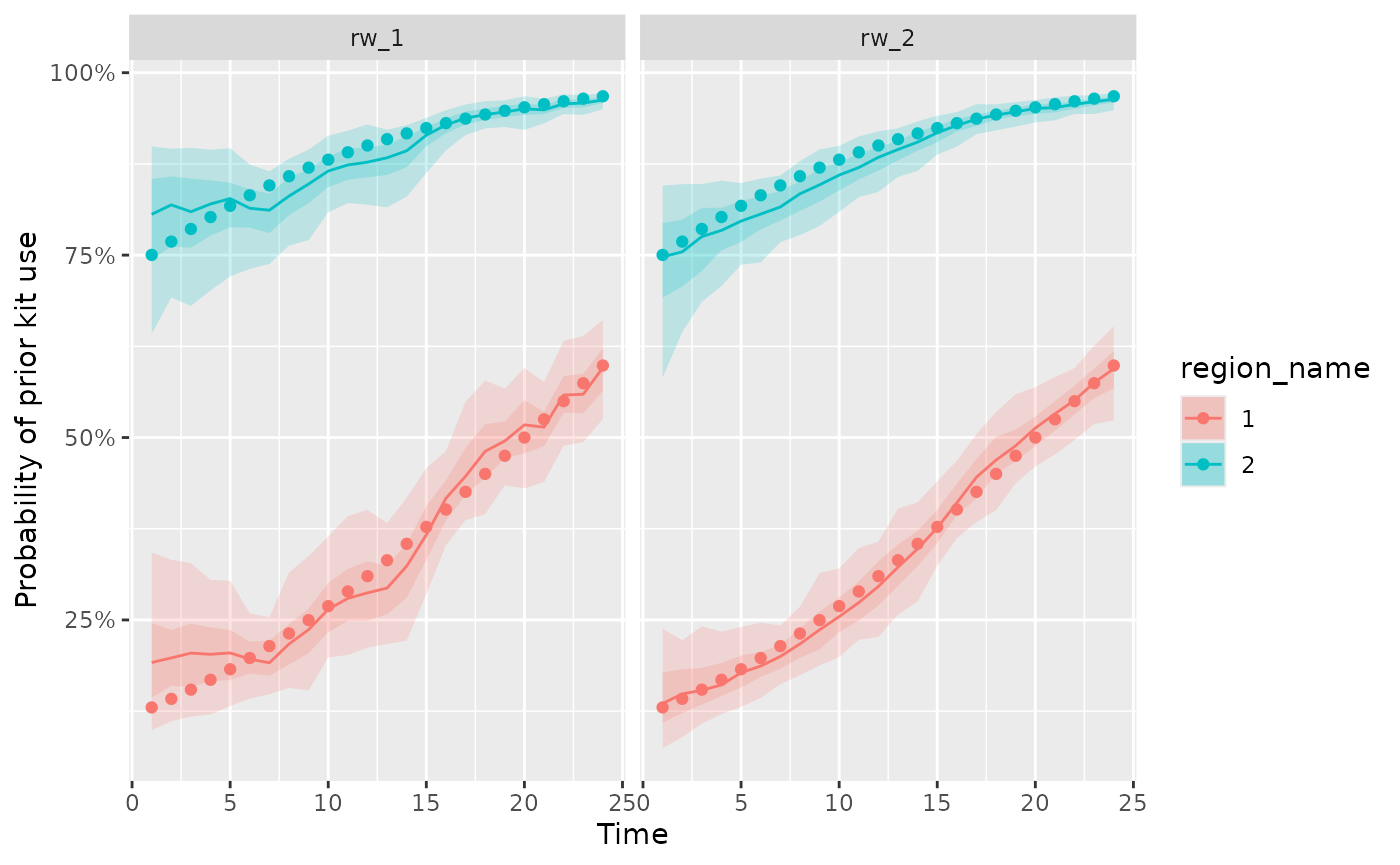
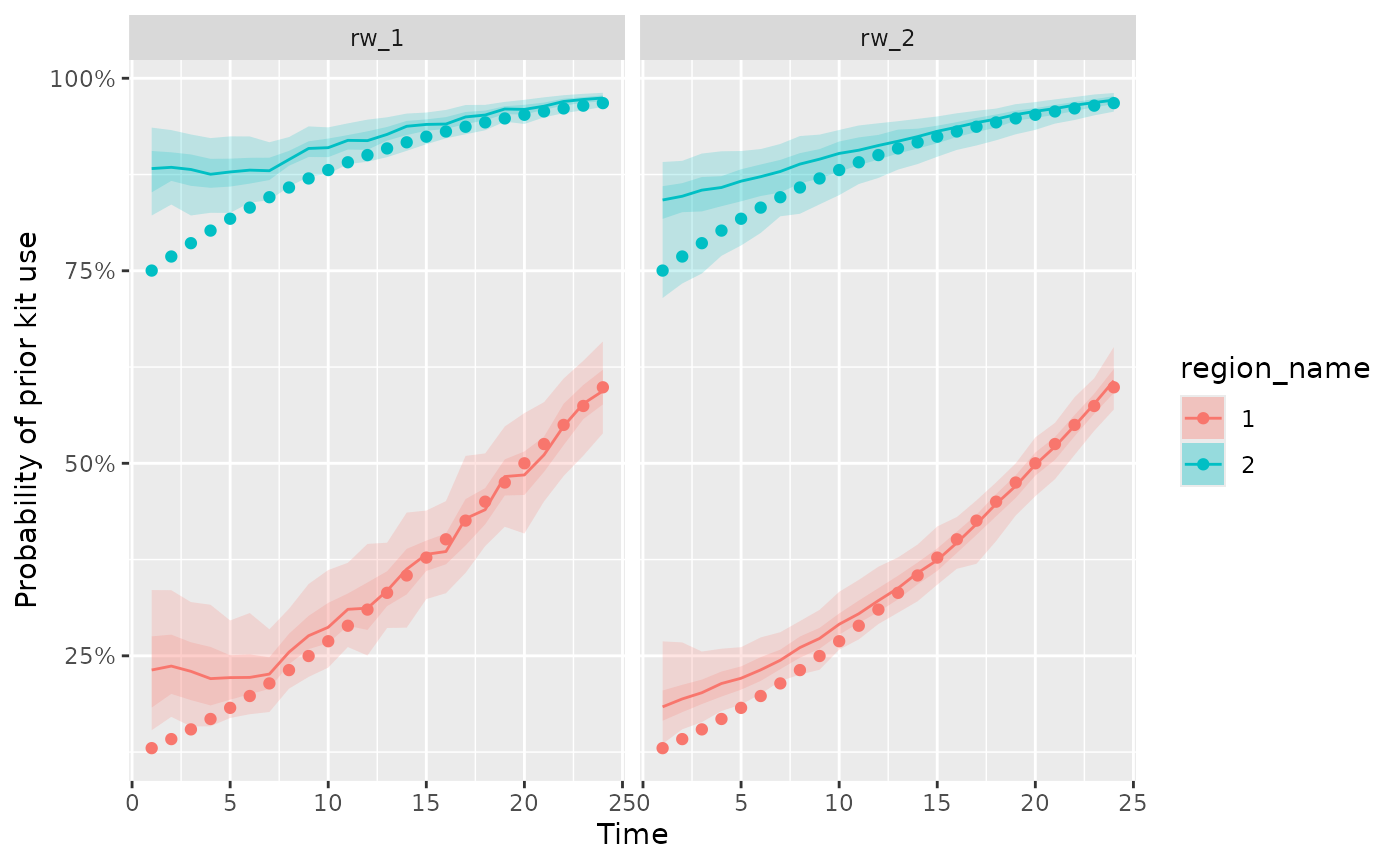
Deploying to gh-pages from @ sempwn/bennu@60a3f8bed3d4ef586ce36be94f3d43cffceaf0da 🚀

diff --git a/articles/Introduction.html b/articles/Introduction.html
@@ -135,9 +135,11 @@
 <span><span class="co">#&gt; <span style="color: #555555;">This warning is displayed once every 8 hours.</span></span></span>
 <span><span class="co">#&gt; <span style="color: #555555;">Call `lifecycle::last_lifecycle_warnings()` to see where this warning was</span></span></span>
 <span><span class="co">#&gt; <span style="color: #555555;">generated.</span></span></span>
-<span><span class="co">#&gt; Warning: There were 12 divergent transitions after warmup. See</span></span>
+<span><span class="co">#&gt; Warning: There were 28 divergent transitions after warmup. See</span></span>
 <span><span class="co">#&gt; https://mc-stan.org/misc/warnings.html#divergent-transitions-after-warmup</span></span>
 <span><span class="co">#&gt; to find out why this is a problem and how to eliminate them.</span></span>
+<span><span class="co">#&gt; Warning: There were 1 chains where the estimated Bayesian Fraction of Missing Information was low. See</span></span>
+<span><span class="co">#&gt; https://mc-stan.org/misc/warnings.html#bfmi-low</span></span>
 <span><span class="co">#&gt; Warning: Examine the pairs() plot to diagnose sampling problems</span></span>
 <span><span class="co">#&gt; Warning: The largest R-hat is NA, indicating chains have not mixed.</span></span>
 <span><span class="co">#&gt; Running the chains for more iterations may help. See</span></span>
@@ -174,18 +176,18 @@
 <span></span>
 <span><span class="fu"><a href="https://mc-stan.org/posterior/reference/draws_summary.html" class="external-link">summarise_draws</a></span><span class="op">(</span><span class="va">fit</span>, <span class="fu"><a href="https://mc-stan.org/posterior/reference/draws_summary.html" class="external-link">default_summary_measures</a></span><span class="op">(</span><span class="op">)</span><span class="op">)</span></span>
 <span><span class="co">#&gt; <span style="color: #949494;"># A tibble: 222 × 7</span></span></span>
-<span><span class="co">#&gt;    variable   mean median     sd    mad     q5   q95</span></span>
-<span><span class="co">#&gt;    <span style="color: #949494; font-style: italic;">&lt;chr&gt;</span>     <span style="color: #949494; font-style: italic;">&lt;dbl&gt;</span>  <span style="color: #949494; font-style: italic;">&lt;dbl&gt;</span>  <span style="color: #949494; font-style: italic;">&lt;dbl&gt;</span>  <span style="color: #949494; font-style: italic;">&lt;dbl&gt;</span>  <span style="color: #949494; font-style: italic;">&lt;dbl&gt;</span> <span style="color: #949494; font-style: italic;">&lt;dbl&gt;</span></span></span>
-<span><span class="co">#&gt; <span style="color: #BCBCBC;"> 1</span> sim_p[1]  0.201  0.192 0.074<span style="text-decoration: underline;">9</span> 0.076<span style="text-decoration: underline;">3</span> 0.099<span style="text-decoration: underline;">0</span> 0.342</span></span>
-<span><span class="co">#&gt; <span style="color: #BCBCBC;"> 2</span> sim_p[2]  0.204  0.198 0.063<span style="text-decoration: underline;">2</span> 0.056<span style="text-decoration: underline;">9</span> 0.111  0.332</span></span>
-<span><span class="co">#&gt; <span style="color: #BCBCBC;"> 3</span> sim_p[3]  0.208  0.204 0.065<span style="text-decoration: underline;">9</span> 0.065<span style="text-decoration: underline;">7</span> 0.117  0.328</span></span>
-<span><span class="co">#&gt; <span style="color: #BCBCBC;"> 4</span> sim_p[4]  0.206  0.203 0.056<span style="text-decoration: underline;">9</span> 0.054<span style="text-decoration: underline;">4</span> 0.120  0.305</span></span>
-<span><span class="co">#&gt; <span style="color: #BCBCBC;"> 5</span> sim_p[5]  0.207  0.205 0.053<span style="text-decoration: underline;">6</span> 0.050<span style="text-decoration: underline;">6</span> 0.132  0.304</span></span>
-<span><span class="co">#&gt; <span style="color: #BCBCBC;"> 6</span> sim_p[6]  0.200  0.196 0.036<span style="text-decoration: underline;">6</span> 0.032<span style="text-decoration: underline;">2</span> 0.142  0.259</span></span>
-<span><span class="co">#&gt; <span style="color: #BCBCBC;"> 7</span> sim_p[7]  0.197  0.191 0.032<span style="text-decoration: underline;">0</span> 0.032<span style="text-decoration: underline;">2</span> 0.148  0.254</span></span>
-<span><span class="co">#&gt; <span style="color: #BCBCBC;"> 8</span> sim_p[8]  0.219  0.217 0.046<span style="text-decoration: underline;">2</span> 0.041<span style="text-decoration: underline;">4</span> 0.157  0.315</span></span>
-<span><span class="co">#&gt; <span style="color: #BCBCBC;"> 9</span> sim_p[9]  0.236  0.237 0.051<span style="text-decoration: underline;">4</span> 0.044<span style="text-decoration: underline;">5</span> 0.153  0.337</span></span>
-<span><span class="co">#&gt; <span style="color: #BCBCBC;">10</span> sim_p[10] 0.271  0.265 0.050<span style="text-decoration: underline;">3</span> 0.050<span style="text-decoration: underline;">6</span> 0.199  0.365</span></span>
+<span><span class="co">#&gt;    variable   mean median     sd    mad    q5   q95</span></span>
+<span><span class="co">#&gt;    <span style="color: #949494; font-style: italic;">&lt;chr&gt;</span>     <span style="color: #949494; font-style: italic;">&lt;dbl&gt;</span>  <span style="color: #949494; font-style: italic;">&lt;dbl&gt;</span>  <span style="color: #949494; font-style: italic;">&lt;dbl&gt;</span>  <span style="color: #949494; font-style: italic;">&lt;dbl&gt;</span> <span style="color: #949494; font-style: italic;">&lt;dbl&gt;</span> <span style="color: #949494; font-style: italic;">&lt;dbl&gt;</span></span></span>
+<span><span class="co">#&gt; <span style="color: #BCBCBC;"> 1</span> sim_p[1]  0.235  0.232 0.059<span style="text-decoration: underline;">8</span> 0.067<span style="text-decoration: underline;">8</span> 0.153 0.335</span></span>
+<span><span class="co">#&gt; <span style="color: #BCBCBC;"> 2</span> sim_p[2]  0.242  0.237 0.052<span style="text-decoration: underline;">6</span> 0.055<span style="text-decoration: underline;">1</span> 0.171 0.335</span></span>
+<span><span class="co">#&gt; <span style="color: #BCBCBC;"> 3</span> sim_p[3]  0.233  0.230 0.049<span style="text-decoration: underline;">6</span> 0.055<span style="text-decoration: underline;">5</span> 0.158 0.320</span></span>
+<span><span class="co">#&gt; <span style="color: #BCBCBC;"> 4</span> sim_p[4]  0.227  0.220 0.051<span style="text-decoration: underline;">0</span> 0.052<span style="text-decoration: underline;">6</span> 0.158 0.316</span></span>
+<span><span class="co">#&gt; <span style="color: #BCBCBC;"> 5</span> sim_p[5]  0.227  0.222 0.041<span style="text-decoration: underline;">1</span> 0.042<span style="text-decoration: underline;">8</span> 0.169 0.296</span></span>
+<span><span class="co">#&gt; <span style="color: #BCBCBC;"> 6</span> sim_p[6]  0.229  0.222 0.040<span style="text-decoration: underline;">9</span> 0.038<span style="text-decoration: underline;">6</span> 0.174 0.306</span></span>
+<span><span class="co">#&gt; <span style="color: #BCBCBC;"> 7</span> sim_p[7]  0.228  0.226 0.033<span style="text-decoration: underline;">7</span> 0.030<span style="text-decoration: underline;">1</span> 0.177 0.284</span></span>
+<span><span class="co">#&gt; <span style="color: #BCBCBC;"> 8</span> sim_p[8]  0.259  0.255 0.032<span style="text-decoration: underline;">3</span> 0.029<span style="text-decoration: underline;">3</span> 0.207 0.311</span></span>
+<span><span class="co">#&gt; <span style="color: #BCBCBC;"> 9</span> sim_p[9]  0.281  0.276 0.040<span style="text-decoration: underline;">7</span> 0.034<span style="text-decoration: underline;">6</span> 0.223 0.343</span></span>
+<span><span class="co">#&gt; <span style="color: #BCBCBC;">10</span> sim_p[10] 0.293  0.287 0.038<span style="text-decoration: underline;">9</span> 0.037<span style="text-decoration: underline;">1</span> 0.235 0.361</span></span>
 <span><span class="co">#&gt; <span style="color: #949494;"># ℹ 212 more rows</span></span></span></code></pre></div>
 <p>We can plot the posterior predictive distribution of the probability
 of prior kit use and compare to simulated data using the
@@ -221,9 +223,9 @@ check by re-running the model without the likelihood by setting the
 <span><span class="co">#&gt; Warning: There were 2 divergent transitions after warmup. See</span></span>
 <span><span class="co">#&gt; https://mc-stan.org/misc/warnings.html#divergent-transitions-after-warmup</span></span>
 <span><span class="co">#&gt; to find out why this is a problem and how to eliminate them.</span></span>
-<span><span class="co">#&gt; Warning: There were 1 transitions after warmup that exceeded the maximum treedepth. Increase max_treedepth above 10. See</span></span>
+<span><span class="co">#&gt; Warning: There were 3 transitions after warmup that exceeded the maximum treedepth. Increase max_treedepth above 10. See</span></span>
 <span><span class="co">#&gt; https://mc-stan.org/misc/warnings.html#maximum-treedepth-exceeded</span></span>
-<span><span class="co">#&gt; Warning: There were 4 chains where the estimated Bayesian Fraction of Missing Information was low. See</span></span>
+<span><span class="co">#&gt; Warning: There were 3 chains where the estimated Bayesian Fraction of Missing Information was low. See</span></span>
 <span><span class="co">#&gt; https://mc-stan.org/misc/warnings.html#bfmi-low</span></span>
 <span><span class="co">#&gt; Warning: Examine the pairs() plot to diagnose sampling problems</span></span>
 <span><span class="co">#&gt; Warning: The largest R-hat is NA, indicating chains have not mixed.</span></span>
@@ -247,6 +249,46 @@ function</p>
 <code class="sourceCode R"><span><span class="fu"><a href="../reference/plot_kit_use.html">plot_kit_use</a></span><span class="op">(</span>prior <span class="op">=</span> <span class="va">prior_fit</span>, posterior <span class="op">=</span> <span class="va">fit</span>, data <span class="op">=</span> <span class="va">d</span><span class="op">)</span></span></code></pre></div>
 <p><img src="Introduction_files/figure-html/plot%20compare%20prior%20posterior-1.png" width="700"></p>
 <div class="section level2">
+<h2 id="incorporating-different-priors">Incorporating different priors<a class="anchor" aria-label="anchor" href="#incorporating-different-priors"></a>
+</h2>
+<p>The default priors for the model are set to be weakly uninformative.
+To change the default priors we can specify a <code>list</code> as
+follows. Note that <code>c</code> is the prior of the region
+coefficients, <code>mu0</code> is the intercept, <code>ct0</code> is the
+initial conditions of the random walk, <code>zeta</code> is the standard
+deviation of the random walk, and <code>sigma</code> is the standard
+deviation of the error. In this example let’s set the variation month to
+month to be smaller by setting the standard deviation of the prior for
+<code>zeta</code> to 0.01.</p>
+<div class="sourceCode" id="cb8"><pre class="downlit sourceCode r">
+<code class="sourceCode R"><span><span class="va">nondefault_priors</span> <span class="op">&lt;-</span> <span class="fu"><a href="https://rdrr.io/r/base/list.html" class="external-link">list</a></span><span class="op">(</span></span>
+<span>  c <span class="op">=</span> <span class="fu"><a href="https://rdrr.io/r/base/list.html" class="external-link">list</a></span><span class="op">(</span>mu <span class="op">=</span> <span class="fl">0</span>, sigma <span class="op">=</span> <span class="fl">1</span><span class="op">)</span>,</span>
+<span>  ct0 <span class="op">=</span> <span class="fu"><a href="https://rdrr.io/r/base/list.html" class="external-link">list</a></span><span class="op">(</span>mu <span class="op">=</span> <span class="fl">0</span>, sigma <span class="op">=</span> <span class="fl">1</span><span class="op">)</span>,</span>
+<span>  zeta <span class="op">=</span> <span class="fu"><a href="https://rdrr.io/r/base/list.html" class="external-link">list</a></span><span class="op">(</span>mu <span class="op">=</span> <span class="fl">0</span>, sigma <span class="op">=</span> <span class="fl">0.01</span><span class="op">)</span>,</span>
+<span>  mu0 <span class="op">=</span> <span class="fu"><a href="https://rdrr.io/r/base/list.html" class="external-link">list</a></span><span class="op">(</span>mu <span class="op">=</span> <span class="fl">0</span>, sigma <span class="op">=</span> <span class="fl">1</span><span class="op">)</span>,</span>
+<span>  sigma <span class="op">=</span> <span class="fu"><a href="https://rdrr.io/r/base/list.html" class="external-link">list</a></span><span class="op">(</span>mu <span class="op">=</span> <span class="fl">0</span>, sigma <span class="op">=</span> <span class="fl">1</span><span class="op">)</span></span>
+<span><span class="op">)</span></span>
+<span><span class="va">nondefault_prior_fit</span> <span class="op">&lt;-</span> <span class="fu"><a href="../reference/est_naloxone.html">est_naloxone</a></span><span class="op">(</span><span class="va">d</span>, iter <span class="op">=</span> <span class="fl">100</span>, priors <span class="op">=</span> <span class="va">nondefault_priors</span><span class="op">)</span></span>
+<span><span class="co">#&gt; Warning: There were 4 transitions after warmup that exceeded the maximum treedepth. Increase max_treedepth above 10. See</span></span>
+<span><span class="co">#&gt; https://mc-stan.org/misc/warnings.html#maximum-treedepth-exceeded</span></span>
+<span><span class="co">#&gt; Warning: Examine the pairs() plot to diagnose sampling problems</span></span>
+<span><span class="co">#&gt; Warning: The largest R-hat is NA, indicating chains have not mixed.</span></span>
+<span><span class="co">#&gt; Running the chains for more iterations may help. See</span></span>
+<span><span class="co">#&gt; https://mc-stan.org/misc/warnings.html#r-hat</span></span>
+<span><span class="co">#&gt; Warning: Bulk Effective Samples Size (ESS) is too low, indicating posterior means and medians may be unreliable.</span></span>
+<span><span class="co">#&gt; Running the chains for more iterations may help. See</span></span>
+<span><span class="co">#&gt; https://mc-stan.org/misc/warnings.html#bulk-ess</span></span>
+<span><span class="co">#&gt; Warning: Tail Effective Samples Size (ESS) is too low, indicating posterior variances and tail quantiles may be unreliable.</span></span>
+<span><span class="co">#&gt; Running the chains for more iterations may help. See</span></span>
+<span><span class="co">#&gt; https://mc-stan.org/misc/warnings.html#tail-ess</span></span></code></pre></div>
+<p>Compare the posterior using non-default priors to the posterior for
+default priors,</p>
+<div class="sourceCode" id="cb9"><pre class="downlit sourceCode r">
+<code class="sourceCode R"><span><span class="fu"><a href="../reference/plot_kit_use.html">plot_kit_use</a></span><span class="op">(</span>`Default prior` <span class="op">=</span> <span class="va">fit</span>,</span>
+<span>             `Non-default prior` <span class="op">=</span> <span class="va">nondefault_prior_fit</span>, data <span class="op">=</span> <span class="va">d</span><span class="op">)</span></span></code></pre></div>
+<p><img src="Introduction_files/figure-html/plot%20compare%20prior%20posterior%20nondefault%20prior-1.png" width="700"></p>
+</div>
+<div class="section level2">
 <h2 id="random-walk-of-order-2-model">Random walk of order 2 model<a class="anchor" aria-label="anchor" href="#random-walk-of-order-2-model"></a>
 </h2>
 <p>The second model uses a random walk of order 1 to characterize the
@@ -261,18 +303,16 @@ independent second order increments,</p>
 \sim N(0,\tau^{-1}) \]</span></p>
 <p>This version of the model will produce smoother estimates of
 probability of naloxone use in time.</p>
-<div class="sourceCode" id="cb8"><pre class="downlit sourceCode r">
+<div class="sourceCode" id="cb10"><pre class="downlit sourceCode r">
 <code class="sourceCode R"><span><span class="co"># note iter should be at least 2000 to generate a reasonable posterior sample</span></span>
 <span><span class="co"># note use `rw_type` to specify order of random walk</span></span>
 <span><span class="va">rw2_fit</span> <span class="op">&lt;-</span> <span class="fu"><a href="../reference/est_naloxone.html">est_naloxone</a></span><span class="op">(</span><span class="va">d</span>,</span>
 <span>  rw_type <span class="op">=</span> <span class="fl">2</span>,</span>
 <span>  iter <span class="op">=</span> <span class="fl">100</span></span>
 <span><span class="op">)</span></span>
-<span><span class="co">#&gt; Warning: There were 4 divergent transitions after warmup. See</span></span>
+<span><span class="co">#&gt; Warning: There were 25 divergent transitions after warmup. See</span></span>
 <span><span class="co">#&gt; https://mc-stan.org/misc/warnings.html#divergent-transitions-after-warmup</span></span>
 <span><span class="co">#&gt; to find out why this is a problem and how to eliminate them.</span></span>
-<span><span class="co">#&gt; Warning: There were 1 transitions after warmup that exceeded the maximum treedepth. Increase max_treedepth above 10. See</span></span>
-<span><span class="co">#&gt; https://mc-stan.org/misc/warnings.html#maximum-treedepth-exceeded</span></span>
 <span><span class="co">#&gt; Warning: There were 1 chains where the estimated Bayesian Fraction of Missing Information was low. See</span></span>
 <span><span class="co">#&gt; https://mc-stan.org/misc/warnings.html#bfmi-low</span></span>
 <span><span class="co">#&gt; Warning: Examine the pairs() plot to diagnose sampling problems</span></span>
@@ -291,26 +331,26 @@ probability of naloxone use in time.</p>
 <span><span class="op">)</span></span></code></pre></div>
 <p><img src="Introduction_files/figure-html/rw%20order%202%20model-1.png" width="700"></p>
 <p>Summarize random walk order 2 model draws</p>
-<div class="sourceCode" id="cb9"><pre class="downlit sourceCode r">
+<div class="sourceCode" id="cb11"><pre class="downlit sourceCode r">
 <code class="sourceCode R"><span><span class="fu"><a href="https://mc-stan.org/posterior/reference/draws_summary.html" class="external-link">summarise_draws</a></span><span class="op">(</span><span class="va">rw2_fit</span>, <span class="fu"><a href="https://mc-stan.org/posterior/reference/draws_summary.html" class="external-link">default_convergence_measures</a></span><span class="op">(</span><span class="op">)</span><span class="op">)</span></span>
 <span><span class="co">#&gt; <span style="color: #949494;"># A tibble: 222 × 4</span></span></span>
 <span><span class="co">#&gt;    variable   rhat ess_bulk ess_tail</span></span>
 <span><span class="co">#&gt;    <span style="color: #949494; font-style: italic;">&lt;chr&gt;</span>     <span style="color: #949494; font-style: italic;">&lt;dbl&gt;</span>    <span style="color: #949494; font-style: italic;">&lt;dbl&gt;</span>    <span style="color: #949494; font-style: italic;">&lt;dbl&gt;</span></span></span>
-<span><span class="co">#&gt; <span style="color: #BCBCBC;"> 1</span> sim_p[1]   1.07     64.2    100. </span></span>
-<span><span class="co">#&gt; <span style="color: #BCBCBC;"> 2</span> sim_p[2]   1.03     72.4     62.2</span></span>
-<span><span class="co">#&gt; <span style="color: #BCBCBC;"> 3</span> sim_p[3]   1.02     75.6     65.1</span></span>
-<span><span class="co">#&gt; <span style="color: #BCBCBC;"> 4</span> sim_p[4]   1.03     75.6    132. </span></span>
-<span><span class="co">#&gt; <span style="color: #BCBCBC;"> 5</span> sim_p[5]   1.03    140.     150. </span></span>
-<span><span class="co">#&gt; <span style="color: #BCBCBC;"> 6</span> sim_p[6]   1.01    130.     194. </span></span>
-<span><span class="co">#&gt; <span style="color: #BCBCBC;"> 7</span> sim_p[7]   1.01    162.     192. </span></span>
-<span><span class="co">#&gt; <span style="color: #BCBCBC;"> 8</span> sim_p[8]   1.04     89.5    153. </span></span>
-<span><span class="co">#&gt; <span style="color: #BCBCBC;"> 9</span> sim_p[9]   1.07     53.3     39.9</span></span>
-<span><span class="co">#&gt; <span style="color: #BCBCBC;">10</span> sim_p[10]  1.05     87.1    102. </span></span>
+<span><span class="co">#&gt; <span style="color: #BCBCBC;"> 1</span> sim_p[1]   1.15     69.7    119. </span></span>
+<span><span class="co">#&gt; <span style="color: #BCBCBC;"> 2</span> sim_p[2]   1.11     64.6    104. </span></span>
+<span><span class="co">#&gt; <span style="color: #BCBCBC;"> 3</span> sim_p[3]   1.15     79.3    132. </span></span>
+<span><span class="co">#&gt; <span style="color: #BCBCBC;"> 4</span> sim_p[4]   1.07     69.0     91.7</span></span>
+<span><span class="co">#&gt; <span style="color: #BCBCBC;"> 5</span> sim_p[5]   1.05     88.5    136. </span></span>
+<span><span class="co">#&gt; <span style="color: #BCBCBC;"> 6</span> sim_p[6]   1.02     91.9    134. </span></span>
+<span><span class="co">#&gt; <span style="color: #BCBCBC;"> 7</span> sim_p[7]   1.05     74.4    215. </span></span>
+<span><span class="co">#&gt; <span style="color: #BCBCBC;"> 8</span> sim_p[8]   1.02    139.     232. </span></span>
+<span><span class="co">#&gt; <span style="color: #BCBCBC;"> 9</span> sim_p[9]   1.02    120.     191. </span></span>
+<span><span class="co">#&gt; <span style="color: #BCBCBC;">10</span> sim_p[10]  1.06    119.     107. </span></span>
 <span><span class="co">#&gt; <span style="color: #949494;"># ℹ 212 more rows</span></span></span></code></pre></div>
 <p>We can compare two different model fits of the probability of prior
 kit use to simulated data using the <code>plot_kit_use</code>
 function</p>
-<div class="sourceCode" id="cb10"><pre class="downlit sourceCode r">
+<div class="sourceCode" id="cb12"><pre class="downlit sourceCode r">
 <code class="sourceCode R"><span><span class="fu"><a href="../reference/plot_kit_use.html">plot_kit_use</a></span><span class="op">(</span>rw_1 <span class="op">=</span> <span class="va">fit</span>, rw_2 <span class="op">=</span> <span class="va">rw2_fit</span>, data <span class="op">=</span> <span class="va">d</span><span class="op">)</span></span></code></pre></div>
 <p><img src="Introduction_files/figure-html/plot%20draws%20comparison-1.png" width="700"></p>
 </div>
@@ -323,7 +363,7 @@ data and the distribution data. The model can account for these
 differences and infer the distribution during missing months. See the
 following example for generating distribution data once every three
 months</p>
-<div class="sourceCode" id="cb11"><pre class="downlit sourceCode r">
+<div class="sourceCode" id="cb13"><pre class="downlit sourceCode r">
 <code class="sourceCode R"><span><span class="co">## basic example code</span></span>
 <span><span class="va">d_missing</span> <span class="op">&lt;-</span> <span class="fu"><a href="../reference/generate_model_data.html">generate_model_data</a></span><span class="op">(</span>reporting_freq <span class="op">=</span> <span class="fl">3</span><span class="op">)</span></span>
 <span><span class="fu"><a href="https://ggplot2.tidyverse.org/reference/ggplot.html" class="external-link">ggplot</a></span><span class="op">(</span><span class="fu"><a href="https://ggplot2.tidyverse.org/reference/aes.html" class="external-link">aes</a></span><span class="op">(</span>x <span class="op">=</span> <span class="va">times</span>, y <span class="op">=</span> <span class="va">Reported_Used</span>, color <span class="op">=</span> <span class="fu"><a href="https://rdrr.io/r/base/factor.html" class="external-link">as.factor</a></span><span class="op">(</span><span class="va">regions</span><span class="op">)</span><span class="op">)</span>,</span>
@@ -333,14 +373,16 @@ months</p>
 <span><span class="co">#&gt; Warning: Removed 32 rows containing missing values or values outside the scale range</span></span>
 <span><span class="co">#&gt; (`geom_point()`).</span></span></code></pre></div>
 <p><img src="Introduction_files/figure-html/data%20generation%20lower%20frequency-1.png" width="700"></p>
-<div class="sourceCode" id="cb12"><pre class="downlit sourceCode r">
+<div class="sourceCode" id="cb14"><pre class="downlit sourceCode r">
 <code class="sourceCode R"><span><span class="va">missing_fit</span> <span class="op">&lt;-</span> <span class="fu"><a href="../reference/est_naloxone.html">est_naloxone</a></span><span class="op">(</span><span class="va">d_missing</span>,</span>
 <span>  rw_type <span class="op">=</span> <span class="fl">2</span>,</span>
 <span>  iter <span class="op">=</span> <span class="fl">100</span></span>
 <span><span class="op">)</span></span>
-<span><span class="co">#&gt; Warning: There were 52 divergent transitions after warmup. See</span></span>
+<span><span class="co">#&gt; Warning: There were 9 divergent transitions after warmup. See</span></span>
 <span><span class="co">#&gt; https://mc-stan.org/misc/warnings.html#divergent-transitions-after-warmup</span></span>
 <span><span class="co">#&gt; to find out why this is a problem and how to eliminate them.</span></span>
+<span><span class="co">#&gt; Warning: There were 1 chains where the estimated Bayesian Fraction of Missing Information was low. See</span></span>
+<span><span class="co">#&gt; https://mc-stan.org/misc/warnings.html#bfmi-low</span></span>
 <span><span class="co">#&gt; Warning: Examine the pairs() plot to diagnose sampling problems</span></span>
 <span><span class="co">#&gt; Warning: The largest R-hat is NA, indicating chains have not mixed.</span></span>
 <span><span class="co">#&gt; Running the chains for more iterations may help. See</span></span>
@@ -356,10 +398,10 @@ months</p>
 <span>  off_diag_args <span class="op">=</span> <span class="fu"><a href="https://rdrr.io/r/base/list.html" class="external-link">list</a></span><span class="op">(</span>size <span class="op">=</span> <span class="fl">1</span>, alpha <span class="op">=</span> <span class="fl">0.5</span><span class="op">)</span></span>
 <span><span class="op">)</span></span></code></pre></div>
 <p><img src="Introduction_files/figure-html/missing%20data%20inference-1.png" width="700"></p>
-<div class="sourceCode" id="cb13"><pre class="downlit sourceCode r">
+<div class="sourceCode" id="cb15"><pre class="downlit sourceCode r">
 <code class="sourceCode R"><span><span class="fu"><a href="../reference/plot_kit_use.html">plot_kit_use</a></span><span class="op">(</span>model <span class="op">=</span> <span class="va">missing_fit</span>, data <span class="op">=</span> <span class="va">d_missing</span><span class="op">)</span></span></code></pre></div>
 <p><img src="Introduction_files/figure-html/plot%20draws%20with%20missing%20data-1.png" width="700"></p>
-<div class="sourceCode" id="cb14"><pre class="downlit sourceCode r">
+<div class="sourceCode" id="cb16"><pre class="downlit sourceCode r">
 <code class="sourceCode R"><span><span class="fu"><a href="../reference/plot_kit_use.html">plot_kit_use</a></span><span class="op">(</span>model <span class="op">=</span> <span class="va">missing_fit</span>, data <span class="op">=</span> <span class="va">d_missing</span>, reported <span class="op">=</span> <span class="cn">TRUE</span><span class="op">)</span></span></code></pre></div>
 <p><img src="Introduction_files/figure-html/plot%20reported%20draws%20with%20missing%20data-1.png" width="700"></p>
 </div>
@@ -383,7 +425,7 @@ be expanded into months through interpolation and normalization to
 retain its property as a probability distribution. Example code (not
 run) is shown below. Note that these distributions will need to be
 updated when considering another jurisdiction,</p>
-<div class="sourceCode" id="cb15"><pre class="downlit sourceCode r">
+<div class="sourceCode" id="cb17"><pre class="downlit sourceCode r">
 <code class="sourceCode R"><span><span class="co"># monthly reporting delay distribution</span></span>
 <span><span class="va">psi_vec</span> <span class="op">&lt;-</span> <span class="fu"><a href="https://rdrr.io/r/base/c.html" class="external-link">c</a></span><span class="op">(</span><span class="fl">0.7</span>, <span class="fl">0.2</span>, <span class="fl">0.1</span><span class="op">)</span></span>
 <span><span class="co"># convert to weeks using interpolation</span></span>

diff --git a/news/index.html b/news/index.html
@@ -59,7 +59,8 @@
 
     <div class="section level2">
 <h2 class="page-header" data-toc-text="development version" id="bennu-development-version">bennu (development version)<a class="anchor" aria-label="anchor" href="#bennu-development-version"></a></h2>
-<ul><li><p><code>plot_kit_use</code> can accept <code>reported</code> to plot reported kits used with the posterior predictive distribution (<a href="https://github.com/sempwn/bennu/issues/34" class="external-link">#34</a>)</p></li>
+<ul><li><p><code>est_naloxone</code> can accept <code>priors</code> to change the default model priors (<a href="https://github.com/sempwn/bennu/issues/38" class="external-link">#38</a>)</p></li>
+<li><p><code>plot_kit_use</code> can accept <code>reported</code> to plot reported kits used with the posterior predictive distribution (<a href="https://github.com/sempwn/bennu/issues/34" class="external-link">#34</a>)</p></li>
 <li><p><code>kit_summary_table</code> changed to provide sum estimates by grouped variables as opposed to the percentiles within each group</p></li>
 <li><p><code>kit_summary_table</code> can accept empty <code>...</code> to provide overall summary not grouped by variables</p></li>
 </ul></div>

diff --git a/reference/est_naloxone.html b/reference/est_naloxone.html
@@ -69,6 +69,7 @@
 <span>  max_delays <span class="op">=</span> <span class="fl">3</span>,</span>
 <span>  delay_alpha <span class="op">=</span> <span class="fl">2</span>,</span>
 <span>  delay_beta <span class="op">=</span> <span class="fl">1</span>,</span>
+<span>  priors <span class="op">=</span> <span class="va">the</span><span class="op">$</span><span class="va">default_priors</span>,</span>
 <span>  run_estimation <span class="op">=</span> <span class="cn">TRUE</span>,</span>
 <span>  rw_type <span class="op">=</span> <span class="fl">1</span>,</span>
 <span>  chains <span class="op">=</span> <span class="fl">4</span>,</span>
@@ -121,6 +122,11 @@ distribution</p></dd>
 
 <dt>delay_beta</dt>
 <dd><p>shape parameter for order to distributed delay distribution</p></dd>
+
+
+<dt>priors</dt>
+<dd><p>list of prior values including their mean (mu) and standard
+deviation (sigma)</p></dd>
 
 
 <dt>run_estimation</dt>

diff --git a/reference/est_naloxone_vec.html b/reference/est_naloxone_vec.html
@@ -77,6 +77,7 @@
 <span>  max_delays <span class="op">=</span> <span class="fl">3</span>,</span>
 <span>  delay_alpha <span class="op">=</span> <span class="fl">2</span>,</span>
 <span>  delay_beta <span class="op">=</span> <span class="fl">1</span>,</span>
+<span>  priors <span class="op">=</span> <span class="va">the</span><span class="op">$</span><span class="va">default_priors</span>,</span>
 <span>  run_estimation <span class="op">=</span> <span class="cn">TRUE</span>,</span>
 <span>  rw_type <span class="op">=</span> <span class="fl">1</span>,</span>
 <span>  chains <span class="op">=</span> <span class="fl">4</span>,</span>
@@ -142,6 +143,11 @@ distribution</p></dd>
 
 <dt>delay_beta</dt>
 <dd><p>shape parameter for order to distributed delay distribution</p></dd>
+
+
+<dt>priors</dt>
+<dd><p>list of prior values including their mean (mu) and standard
+deviation (sigma)</p></dd>
 
 
 <dt>run_estimation</dt>
